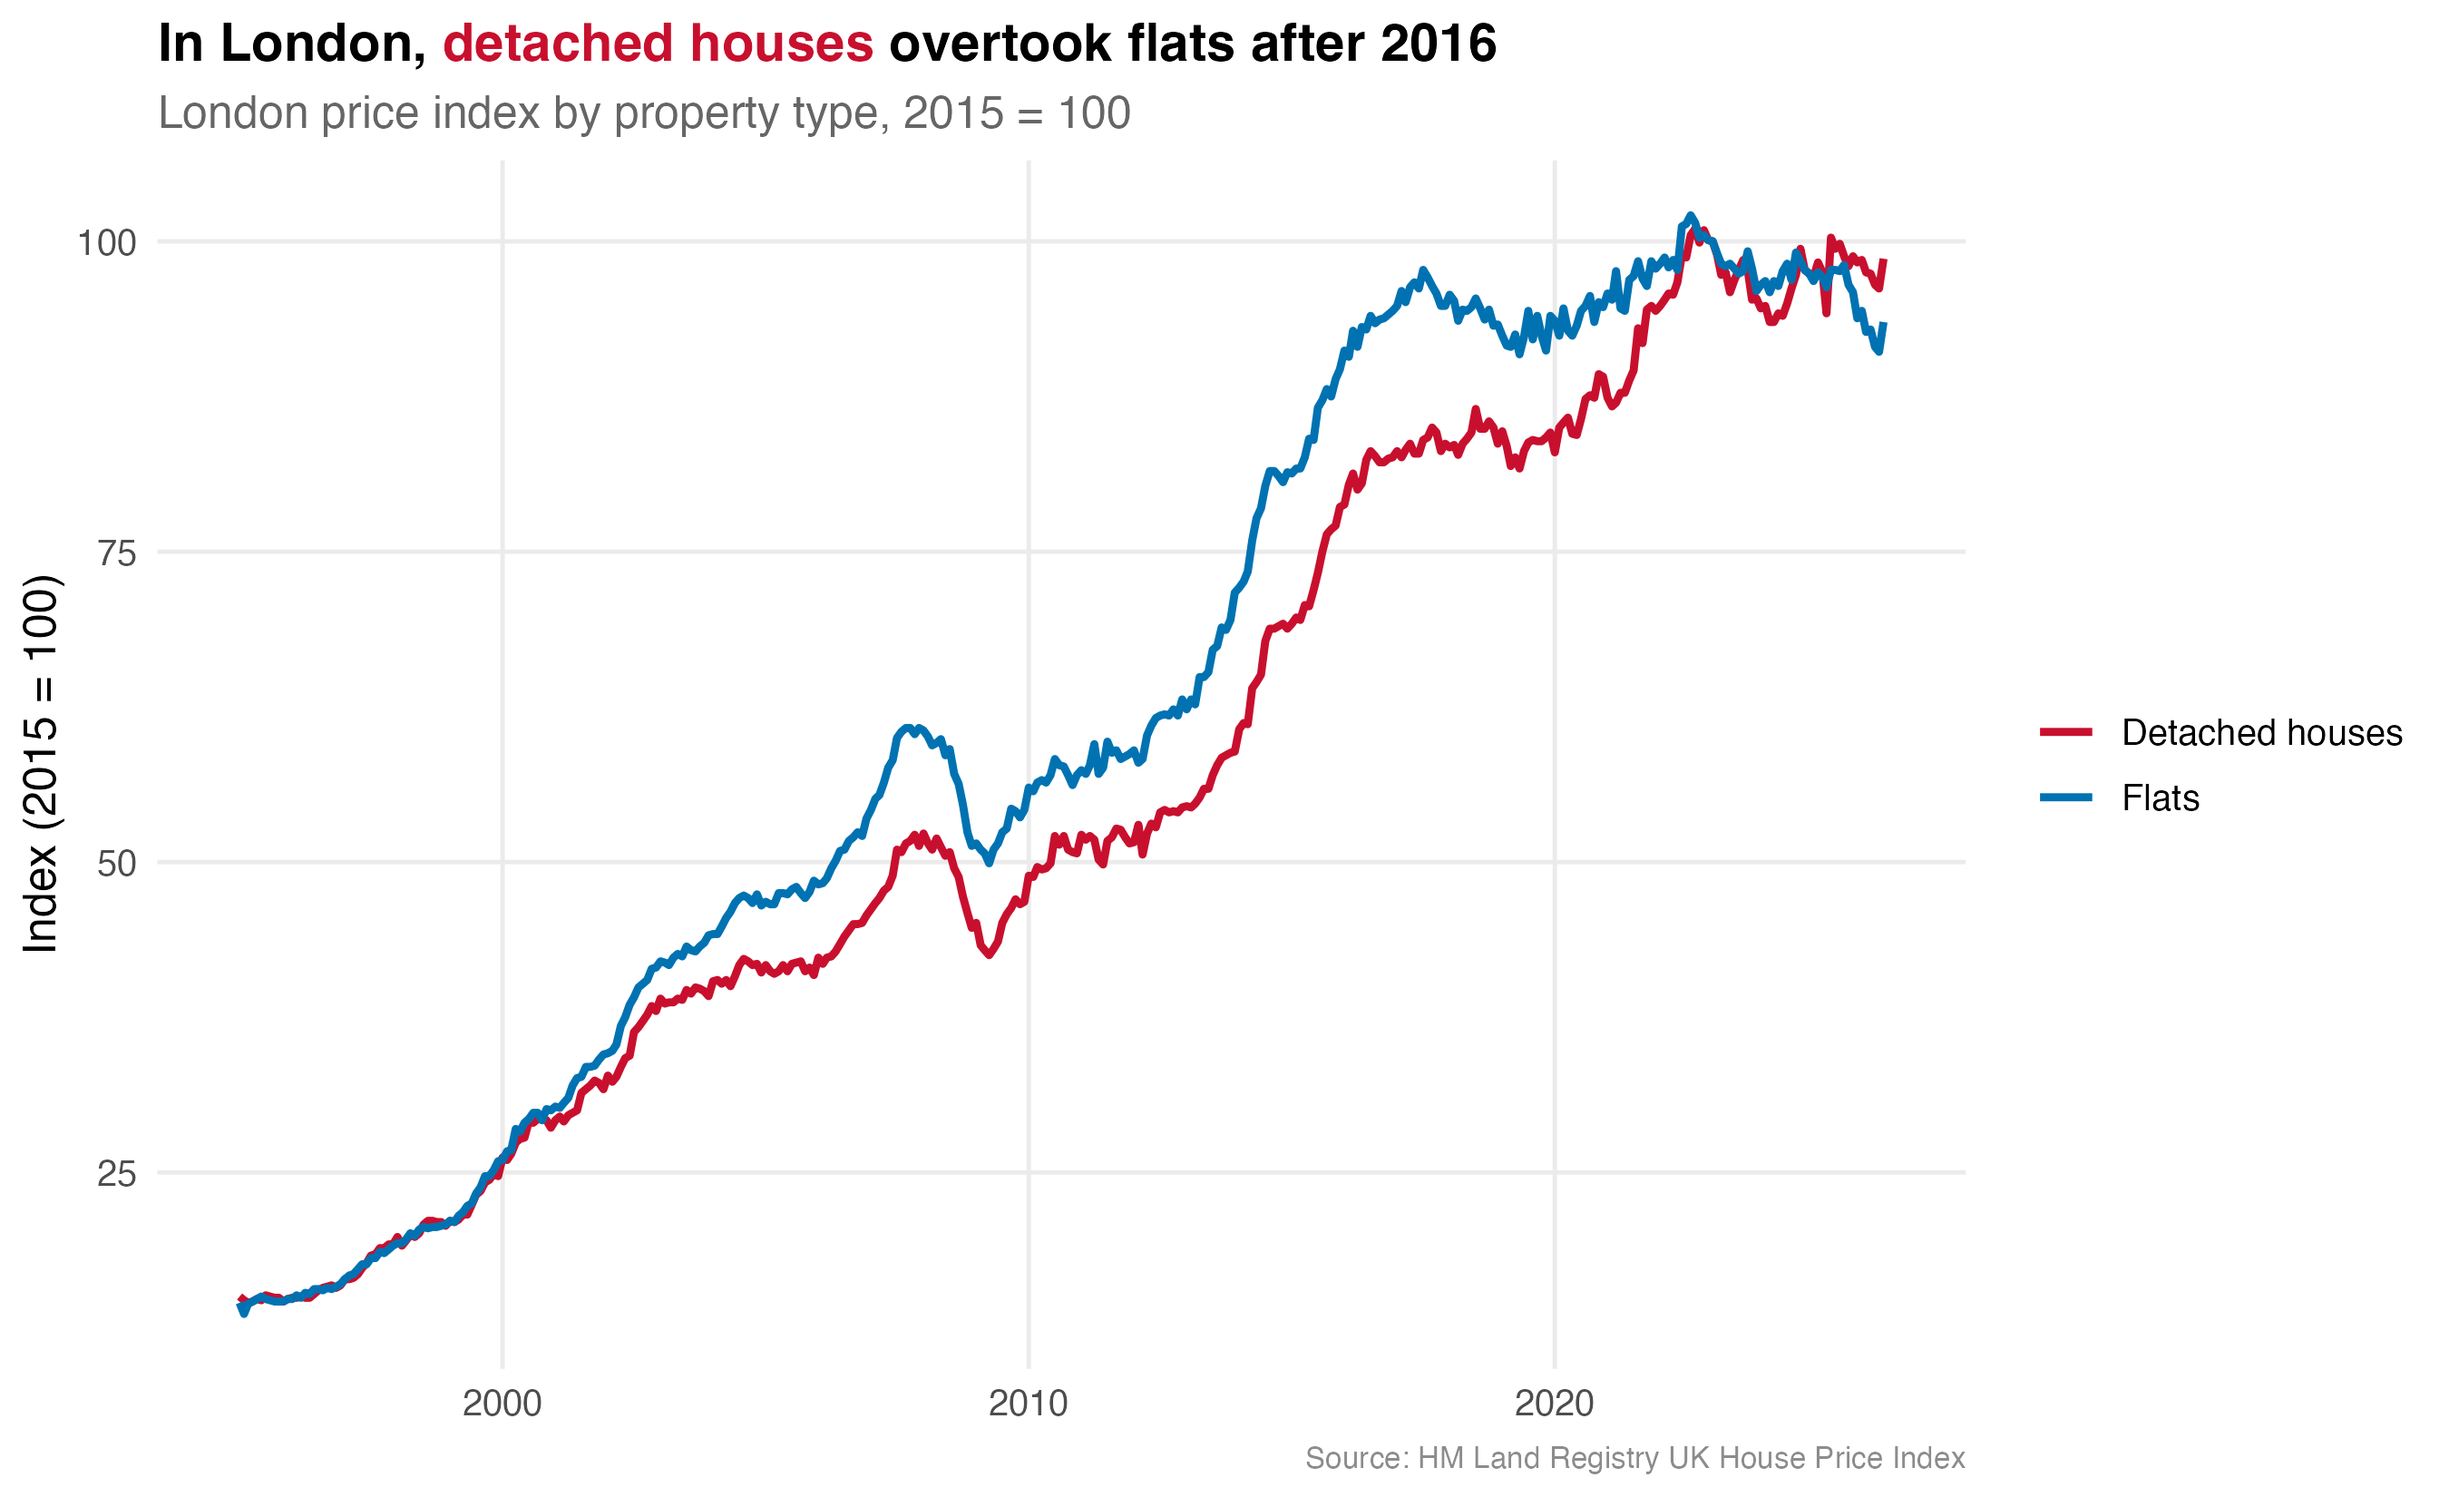
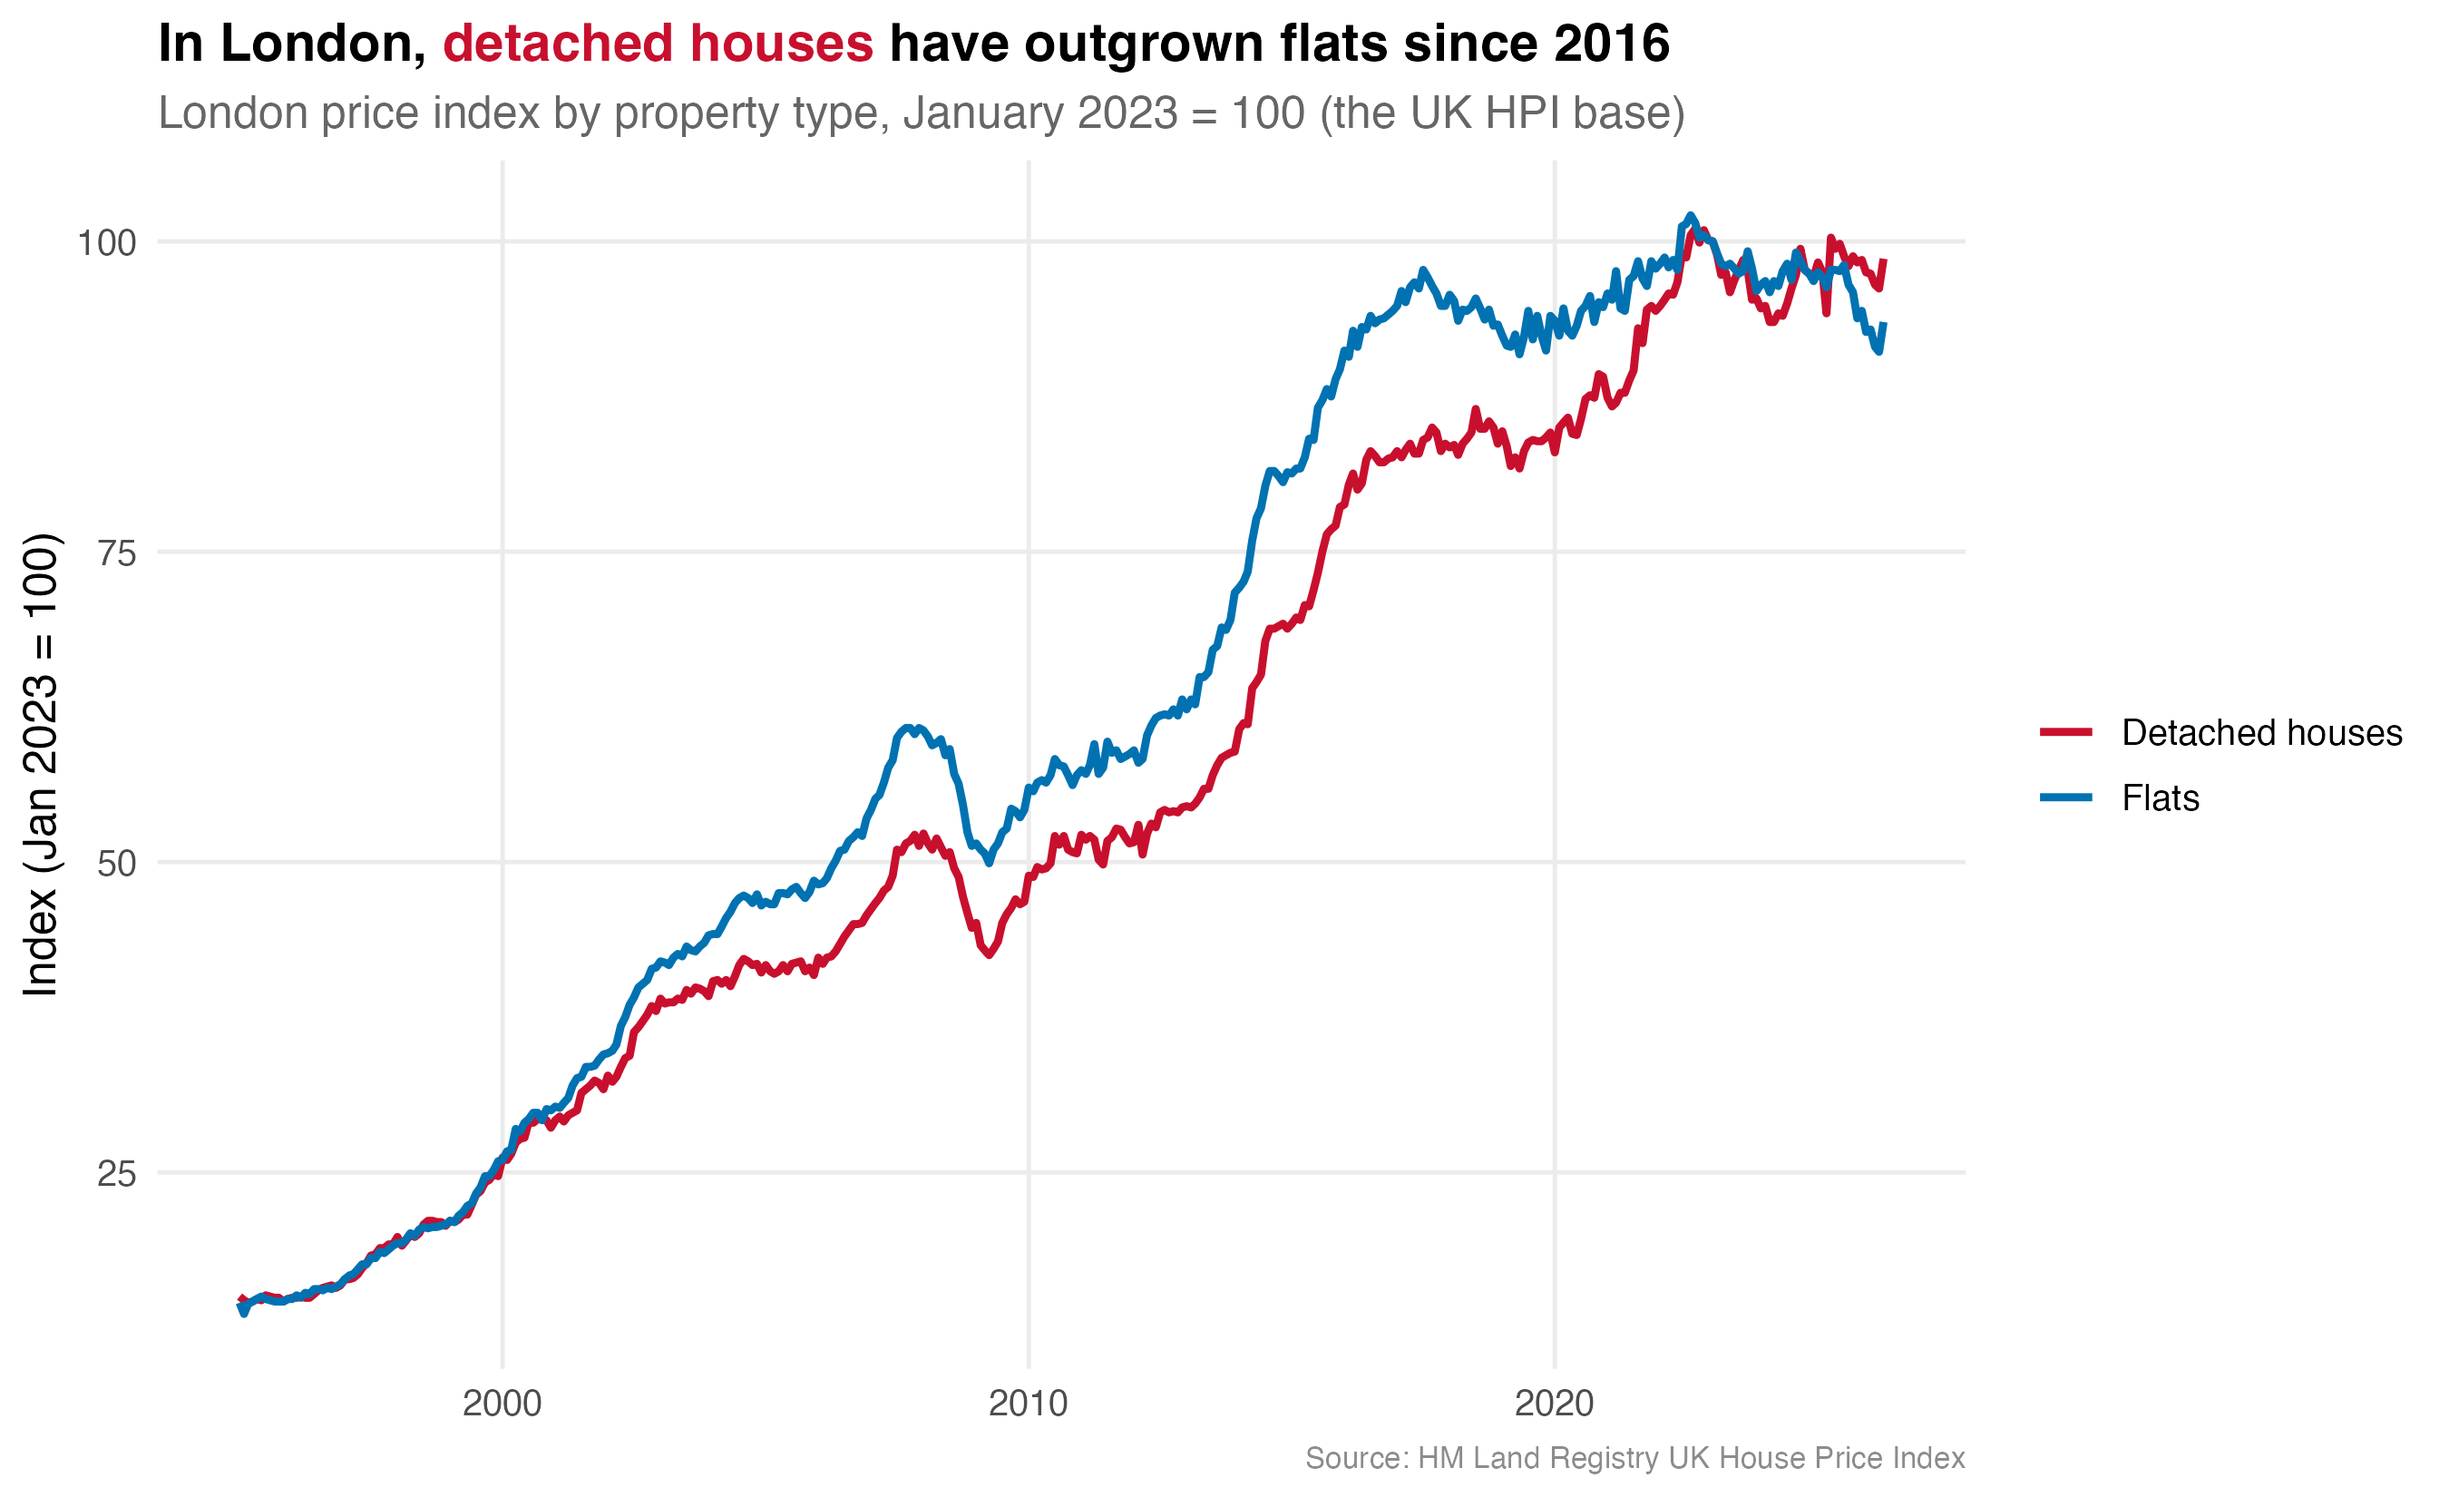
Fix the 2026 heatmap tile and the chart 3 index base; README limitations
- Chart 5: YoY was computed by lagging the December-filtered rows, so the
  final (partial) year compared April 2026 with December 2025, a
  four-month change. For London that showed +0.8% instead of the true
  12-month change of -2.1%. Compute YoY as the 12-month change on the
  monthly series, then read it at December / the latest month. Full-year
  tiles are unchanged.
- Chart 3: the subtitle and axis said "2015 = 100", but the UK HPI
  sub-indices are based at January 2023 = 100. Correct the labels and
  retitle to the growth comparison (detached +25% vs flats +2.5% since
  Jan 2016), since the crossing point of two indices sharing a base is
  an artefact of that base.
- README: tech stack, recomputed numbers, changes since submission and a
  Limitations section. Regenerated viz3 and viz5; the other four PNGs
  are byte-identical to the submitted ones.

Changed region(s): [[0.3733, 0.0, 0.6844, 0.0927], [0.0, 0.3709, 0.0311, 0.6491]]

diff --git a/README.md b/README.md
@@ -4,6 +4,8 @@ A data story in six charts about regional house prices in England, 1995–2026. 
 
 > Individual coursework for **7BUIS009W Data Visualisation & Dashboarding**, MSc Data Science & Analytics, University of Westminster (July 2026).
 
+**Tech stack:** R 4.5 · tidyverse (dplyr, tidyr, readr, lubridate) · ggplot2 · ggtext · scales · patchwork
+
 <p align="center">
   <img src="output/viz2_catchup.png" width="85%" alt="Cumulative house price growth by region, 2016-2026">
 </p>
@@ -32,9 +34,9 @@ The source is HM Land Registry, licensed under the [Open Government Licence v3.0
 |---|---|---|
 | 1 | Regional index, January 1995 = 100 | London grows to about seven times its 1995 level and leads for two decades |
 | 2 | 10-year growth, 2016–2026 (dumbbell) | London is **last, at 12%**, against 58% in the North West, 41% in the North East and 38% for England |
-| 3 | London by property type | Flats led until about 2016; detached houses have done better since |
+| 3 | London by property type | Since January 2016 the London detached-house index has risen 25%, the flat index 2.5% |
 | 4 | London sales volume, 12-month moving average | Monthly sales never returned to their pre-2008 level |
-| 5 | Year-on-year change heatmap | 2008 hit every region; the 2022–23 rate rises hit London and the South East while the North kept growing |
+| 5 | Year-on-year change heatmap | 2008 hit every region; the 2022–23 rate rises hit London and the South East while the North kept growing. In the 12 months to April 2026 London fell 2.1% while the North East rose 10.0% |
 | 6 | £100,000 invested in 1995 | London is still highest at about **£691K**, ahead of the South East (£586K), England (£580K), the North West (£529K) and the North East (£410K) |
 
 **Conclusion:** London's lead has shrunk but not disappeared. Owners there still hold the most housing wealth, but on growth alone London is no longer the obvious place to buy.
@@ -71,7 +73,7 @@ Rscript analysis.R    # writes output/viz1 ... viz6 (300 dpi PNG)
 
 Run it under a UTF-8 locale (for example `LANG=en_GB.UTF-8`). Otherwise the £ sign in chart 6 cannot be drawn.
 
-**Verification, 14 October 2026:** the script ran end to end in about 3 seconds and reproduced every figure quoted above, matching the submitted report. The PNGs in `output/` come from that run.
+**Verification, 20 October 2026:** the script runs end to end in seconds under R 4.5.1. Before the two fixes below, the six PNGs it produced were byte-identical to the ones submitted; after them, charts 1, 2, 4 and 6 are still identical and charts 3 and 5 changed as described. Every number quoted above was recomputed from `data/hpi_clean.csv`.
 
 ## Repository structure
 
@@ -81,4 +83,16 @@ data/hpi_clean.csv   UK HPI extract: 5 areas, 1995-01 to 2026-04
 output/              the six charts
 ```
 
-The only change to the submitted script (`analysis_final.R`) is the data path, which now reads `data/hpi_clean.csv`.
+## Changes since submission
+
+Compared with the submitted script (`analysis_final.R`):
+
+- The data path now reads `data/hpi_clean.csv`.
+- **Chart 5, final tile.** The year-on-year change was computed by lagging the filtered December rows, so the 2026 tile compared April 2026 with December 2025 (a four-month change) rather than with April 2025. For London that showed +0.8% instead of the true −2.1%. YoY is now the 12-month change on the monthly series; the full-year tiles are unchanged.
+- **Chart 3, index base.** The subtitle and axis said "2015 = 100", but the UK HPI sub-indices are based at January 2023 = 100. The labels are corrected. Because both lines equal 100 in January 2023 by construction, where they cross says nothing; the title now states the growth comparison instead ("have outgrown flats since 2016"), which holds for any base.
+
+## Limitations
+
+- Nominal prices: no adjustment for inflation, so "£100,000 in 1995" (chart 6) overstates real gains in every region.
+- Regional averages hide large differences between boroughs and property types.
+- Five areas only (London, South East, North West, North East, England).
